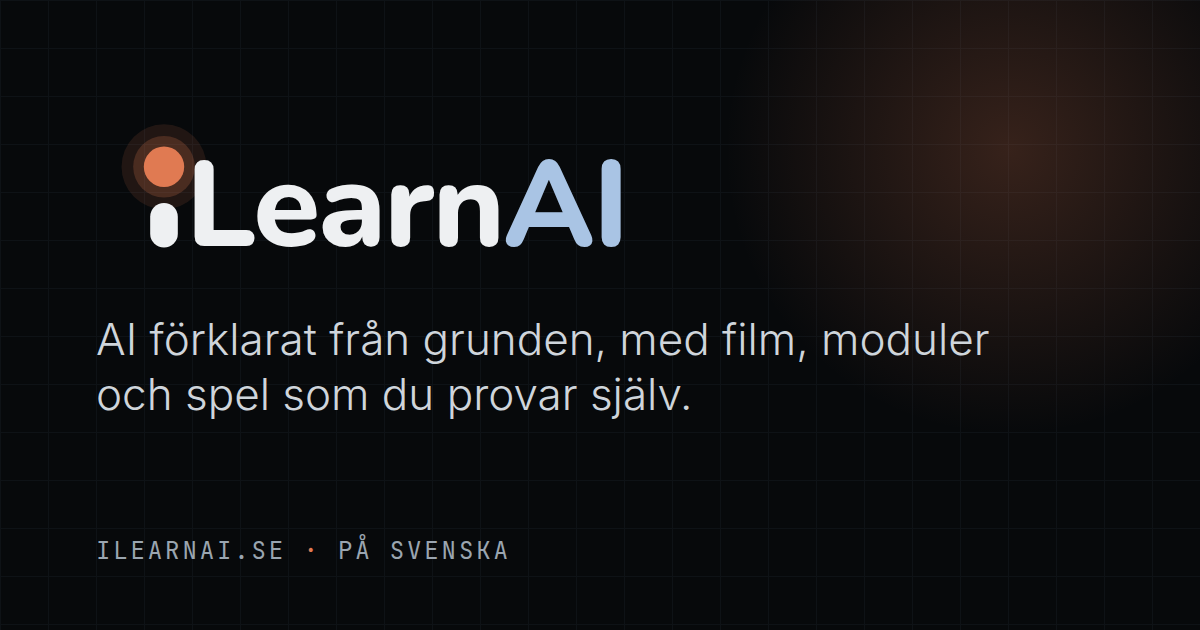
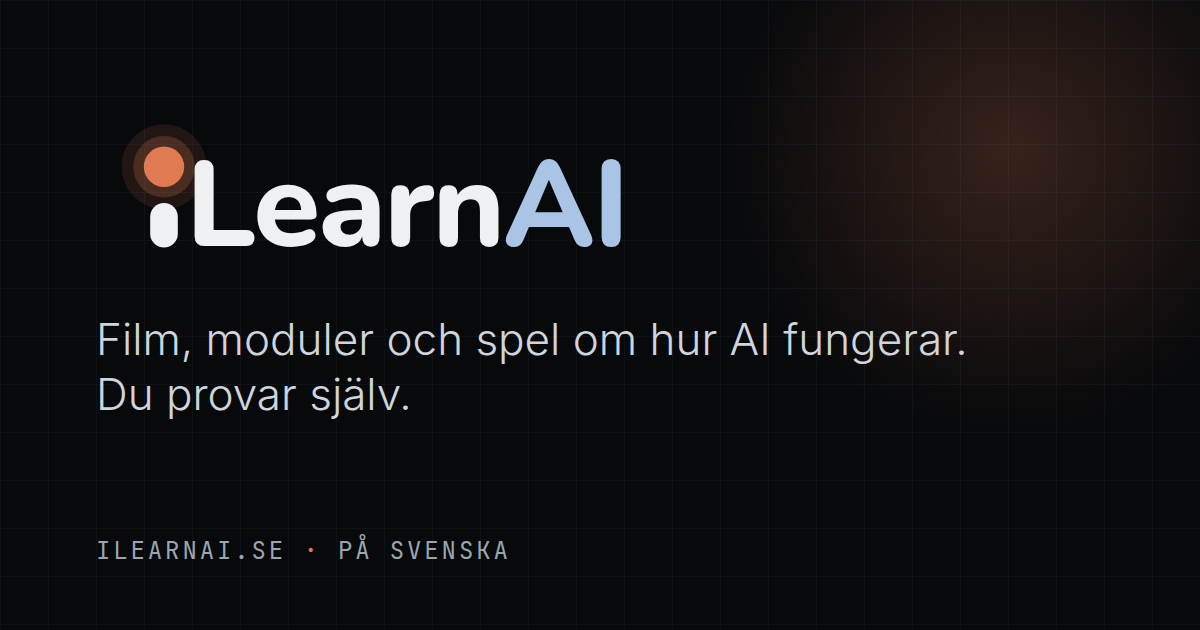
Bort med sloganen ”AI förklarat från grunden” (titel, sidfot, delningsbild, llms.txt)
Sidfoten länkar nu till om-sidan och kontakt i stället.

Claude-Session: https://claude.ai/code/session_01DCLyQTrk6wkc1PmiYpRkzH

Changed region(s): [[0.0617, 0.5127, 0.8325, 0.573], [0.0617, 0.6032, 0.5858, 0.6635]]

diff --git a/apps/web/src/pages/llms.txt.ts b/apps/web/src/pages/llms.txt.ts
@@ -9,7 +9,7 @@ export const GET: APIRoute = async () => {
   const games = (await getCollection('games')).sort((a, b) => a.data.order - b.data.order);
   const body = `# ${SITE.name}
 
-> ${SITE.name} (${SITE.domain}) är en svensk utbildningssajt som förklarar AI från grunden med en kortfilm, interaktiva moduler och lärspel. Sajten grundades ${SITE.foundingYear} av ${SITE.founder.name}.
+> ${SITE.name} (${SITE.domain}) är en svensk utbildningssajt om hur AI fungerar, med en kortfilm, interaktiva moduler och lärspel. Sajten grundades ${SITE.foundingYear} av ${SITE.founder.name}.
 
 - Grundare: ${SITE.founder.name} (${SITE.founder.email})
 - Språk: svenska

diff --git a/AGENTS.md b/AGENTS.md
@@ -1,6 +1,6 @@
 # AGENTS.md – orientering för AI-agenter och utvecklare
 
-**ilearnai.se** (iLearnAI): en sajt som förklarar AI från grunden. Ingången är kortfilmen NÄSTA STEG
+**ilearnai.se** (iLearnAI): en svensk sajt om hur AI fungerar. Ingången är kortfilmen NÄSTA STEG
 (2 min 30 s, Three.js, syntad musik). Runt den finns förklarmoduler (neuralt nätverk,
 språkmodell, agent …), lärspel och en ordlista. Allt innehåll är på svenska.
 

diff --git a/README.md b/README.md
@@ -1,6 +1,6 @@
 # ilearnai.se
 
-AI förklarat från grunden (sajten heter iLearnAI). Ingången är kortfilmen **NÄSTA STEG**, en mörk 3D-film i kod om vägen
+En svensk sajt om hur AI fungerar (sajten heter iLearnAI). Ingången är kortfilmen **NÄSTA STEG**, en mörk 3D-film i kod om vägen
 från människa till språkmodeller, AGI och ASI. Runt den byggs korta, interaktiva förklarmoduler.
 
 ```bash
